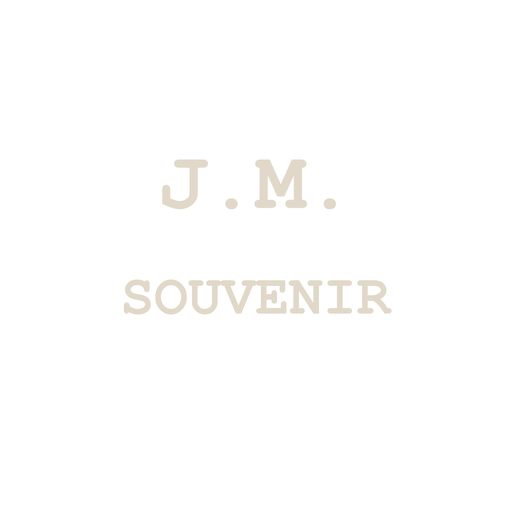
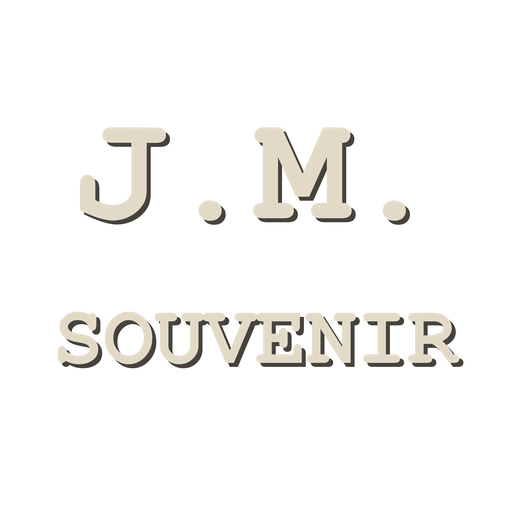
finishes2 sheet 2: mesh-driven finishes (real-size camo, per-gun wear mask, trench-art brass plate + buttplate, worn whitewash, dark Kriegsmarine with salt and rust runs, 101st finish), orientation gate passes all 70 guns (0 skipped), bolder captured marks, s93 diffuse-stage fix

diff --git a/docs/proposals/finishes2_2026-11-09/tools/finishlib.py b/docs/proposals/finishes2_2026-11-09/tools/finishlib.py
@@ -20,7 +20,30 @@ from PIL import Image, ImageDraw
 HERE = os.path.dirname(os.path.abspath(__file__))
 sys.path.insert(0, os.path.join(HERE, '..', '..', 'ironsights_2026-09-28', 'tools'))
 import gungeo  # noqa: E402
-gungeo.ROOT_APPLY = True      # the engine applies a flipped root (Carcano: its idle frame lies along y otherwise)
+gungeo.ROOT_APPLY = True
+import re as _re  # noqa: E402
+import texload, uvview  # noqa: E402
+
+_real_shader_image = uvview.shader_image
+
+
+def diffuse_image(shader):
+    """uvview.shader_image takes the FIRST map of a shader, which on the s93_* chrome-gloss shaders is the environment
+    stage (textures/effects/s93_gloss*.tga, 100x100) and not the gun: take the first map of a stage that is not
+    tcGen environment*"""
+    for pak, k, maps, blk in reversed(texload.shader_maps(shader)):
+        for st in _re.findall(r'\{([^{}]*)\}', blk or ''):
+            if 'environment' in st.lower():
+                continue
+            mm = _re.search(r'\b(?:clamp)?map\s+(\S+)', st, _re.I)
+            if mm and not mm.group(1).startswith('$'):
+                p, pk, im = texload.load(mm.group(1))
+                if im is not None:
+                    return mm.group(1), p, pk, im, blk
+    return _real_shader_image(shader)
+
+
+uvview.shader_image = diffuse_image      # the engine applies a flipped root (Carcano: its idle frame lies along y otherwise)
 
 U_PER_CM = 16.0 / 30.48
 
@@ -307,11 +330,15 @@ def place(g, kind='butt', fill=0.8, side=-1, allow_shared=True, rank=0):
     area, shader, tv, s, c, (ex, ez), tl, _si = cand
     V, UV, T = s['P'], s['UV'], s['tri']
     vi = np.unique(T[tv].ravel())
-    near = vi[np.max(np.abs(V[vi][:, [0, 2]] - (cx, cz)), axis=1) < 1.2 * half + 0.5]   # fit LOCALLY: a curved / skewed
-    if len(near) >= 4 and np.linalg.matrix_rank(np.c_[UV[near], np.ones(len(near))]) == 3:    # island stays square
-        vi = near
-    # RAW texcoords (no per-vertex wrap: an island across u = 1 would tear) - exactly what the in-game tcMod stage sees
-    aff, *_ = np.linalg.lstsq(np.c_[UV[vi], np.ones(len(vi))], V[vi][:, [0, 2]], rcond=None)
+    # RAW texcoords (no per-vertex wrap: an island across u = 1 would tear) - exactly what the in-game tcMod stage sees.
+    # Weighted toward the decal's spot (a curved or skewed island stays square where the decal is), but over the WHOLE
+    # island so the fit is never ill-conditioned (a local subset can be nearly collinear in UV: bug-10664)
+    dist = np.max(np.abs(V[vi][:, [0, 2]] - (cx, cz)), axis=1)
+    w = np.sqrt(np.exp(-(dist / (1.5 * half + 1.0)) ** 2) + 1e-3)[:, None]
+    Xa = np.c_[UV[vi], np.ones(len(vi))]
+    aff, *_ = np.linalg.lstsq(Xa * w, V[vi][:, [0, 2]] * w, rcond=None)
+    near = vi[dist < 1.2 * half + 0.5]
+    vi = near if len(near) >= 3 else vi
     resid = np.abs(np.c_[UV[vi], np.ones(len(vi))] @ aff - V[vi][:, [0, 2]]).max()
     return dict(shader=shader, tris=T[tl], surf=s, aff=aff, centre=(cx, cz), size=float(fill * 2 * half),
                 side=side, shared=shared[id(cand)], fit_err=float(resid))

diff --git a/docs/proposals/finishes2_2026-11-09/tools/decals.py b/docs/proposals/finishes2_2026-11-09/tools/decals.py
@@ -159,19 +159,21 @@ def stamp_text(text, font, box, ink):
 
 
 def waa():
-    im, d = stamp_text('WaA214', FONT_C, 0.16, (34, 32, 30, 230))
-    d.ellipse((S(0.12), S(0.32), S(0.88), S(0.68)), outline=(34, 32, 30, 230), width=int(SS * 6))
+    im, d = stamp_text('WaA214', FONT_C, 0.22, (34, 32, 30, 240))         # big and heavy: it must read at viewer size
+    d.ellipse((S(0.03), S(0.27), S(0.97), S(0.73)), outline=(34, 32, 30, 240), width=int(SS * 12))
     return fin(im)
 
 
 def souvenir():
     im, d = canvas()
-    f1 = ImageFont.truetype(FONT_C, int(S(0.16)))
-    f2 = ImageFont.truetype(FONT_C, int(S(0.11)))
-    ink = (222, 214, 196, 235)                               # scratched into the finish: bare-metal light lines
-    for txt, f, y in (('J.M.', f1, 0.36), ('SOUVENIR', f2, 0.58)):
+    f1 = ImageFont.truetype(FONT_C, int(S(0.30)))
+    f2 = ImageFont.truetype(FONT_C, int(S(0.165)))
+    ink = (226, 218, 198, 245)                               # scratched into the finish: bare light lines
+    for txt, f, y in (('J.M.', f1, 0.34), ('SOUVENIR', f2, 0.66)):
         bb = d.textbbox((0, 0), txt, font=f)
-        d.text((S(0.5) - (bb[2] - bb[0]) / 2 - bb[0], S(y) - (bb[3] - bb[1]) / 2 - bb[1]), txt, font=f, fill=ink)
+        x0, y0 = S(0.5) - (bb[2] - bb[0]) / 2 - bb[0], S(y) - (bb[3] - bb[1]) / 2 - bb[1]
+        d.text((x0 + SS * 4, y0 + SS * 4), txt, font=f, fill=(20, 14, 8, 200))     # the cut's shadow
+        d.text((x0, y0), txt, font=f, fill=ink)
     return fin(im)
 
 

diff --git a/docs/proposals/finishes2_2026-11-09/tools/finish_sheet.py b/docs/proposals/finishes2_2026-11-09/tools/finish_sheet.py
@@ -174,7 +174,7 @@ def finish_tex(fin, base, ctx):
         return over(out, np.array([0.46, 0.24, 0.11]) * (0.7 + 0.3 * shade(base)), np.clip(r * 0.75, 0, 0.75))
     if fin in ('splitter', 'pea', 'telo', 'amoeba'):
         pat = tiled(tile('camo_' + fin), H, W, ctx['rep']('camo_' + fin))[..., :3]
-        pat = np.clip(pat * {'splitter': 1.0, 'pea': 0.78, 'telo': 0.74, 'amoeba': 0.95}[fin], 0, 1)
+        pat = np.clip(pat * {'splitter': 1.0, 'pea': 0.78, 'telo': 0.6, 'amoeba': 0.72}[fin], 0, 1)
         cam = np.clip(pat * (0.35 + 0.65 * shade(base)), 0, 1)
         return over(rgb, cam, paint_m)
     if fin == 'whitewash':
